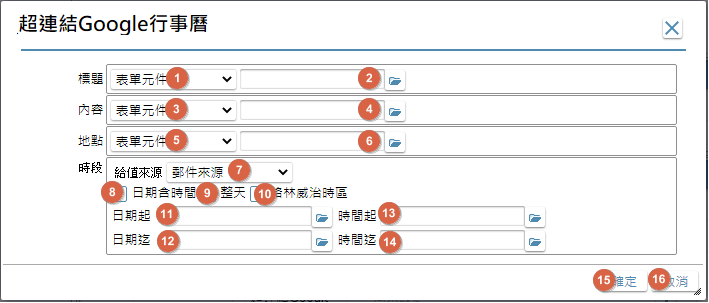
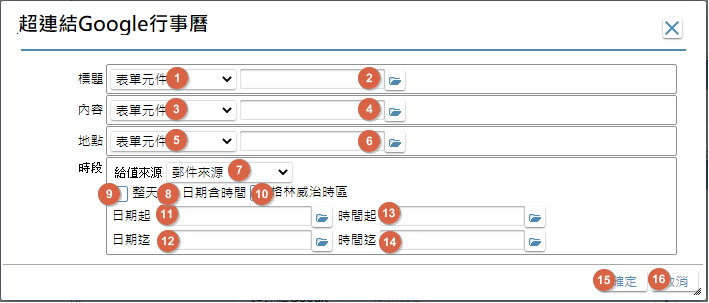
異動: 1. SA規格更新第五版, 請參考檔案: 2021-02-26 2. QA21030035

Changed region(s): [[0.1241, 0.5941, 0.4965, 0.6832]]

diff --git a/8.10.0/UPDATE/ITEM_2/IDE/MAENotice-Link-GoogleCalendar.md b/8.10.0/UPDATE/ITEM_2/IDE/MAENotice-Link-GoogleCalendar.md
@@ -72,16 +72,17 @@
         * 規格說明
             * 下拉選項: 推播來源欄位 / 表單元件 / 表單參數 / 全域變數 
             * 系統預設: 表單元件
+    * `(9)整天`
+        * 用途說明
+        * 規格說明
+            * 系統預設: 未勾選
+            * 當為有勾選時, 欄位:`(13)時間起`、`(14)時間迄`隱藏；欄位:`(8)日期含時間`、`(10)格林威治時區`除能
+            * 當為取消勾選時, 欄位:`(8)日期含時間`、`(10)格林威治時區`致能
     * `(8)日期含時間`
         * 用途說明
         * 規格說明
             * 系統預設: 未勾選
             * 當有勾選時, 欄位:`(13)時間起`、`(14)時間迄`隱藏
-    * `(9)整天`
-        * 用途說明
-        * 規格說明
-            * 系統預設: 未勾選
-            * 當為有勾選時, 欄位:`(13)時間起`、`(14)時間迄`隱藏
     * `(10)格林威治時區`
         * 用途說明
         * 規格說明 

diff --git a/8.10.0/UPDATE/ITEM_2/IDE/AffectModify-UnitDetection.md b/8.10.0/UPDATE/ITEM_2/IDE/AffectModify-UnitDetection.md
@@ -16,7 +16,7 @@
         * `優先序` 不可為空值或是0 
         *  [推播內容][link_MAENotice_fieldbreak3]
             * 當`來源`=查表時, 則`檢視表`必須設定設定且存在專案中
-            * 當 `替代變數表格`的`類別`有設定時, 進行下列檢查
+            * 當 `替代變數表格`的`類別`有設定時, `來源欄位`的資料型態不能為二進位、布林型態, 進行下列檢查
                 * 當`類別`=表單元件: `來源欄位`須存在該表單中
                 * 當`類別`=推播來源欄位: `來源欄位`須存在`檢視表`中
                 * 當`類別`=表單參數: `來源欄位`須存在該表單的接收參數中
